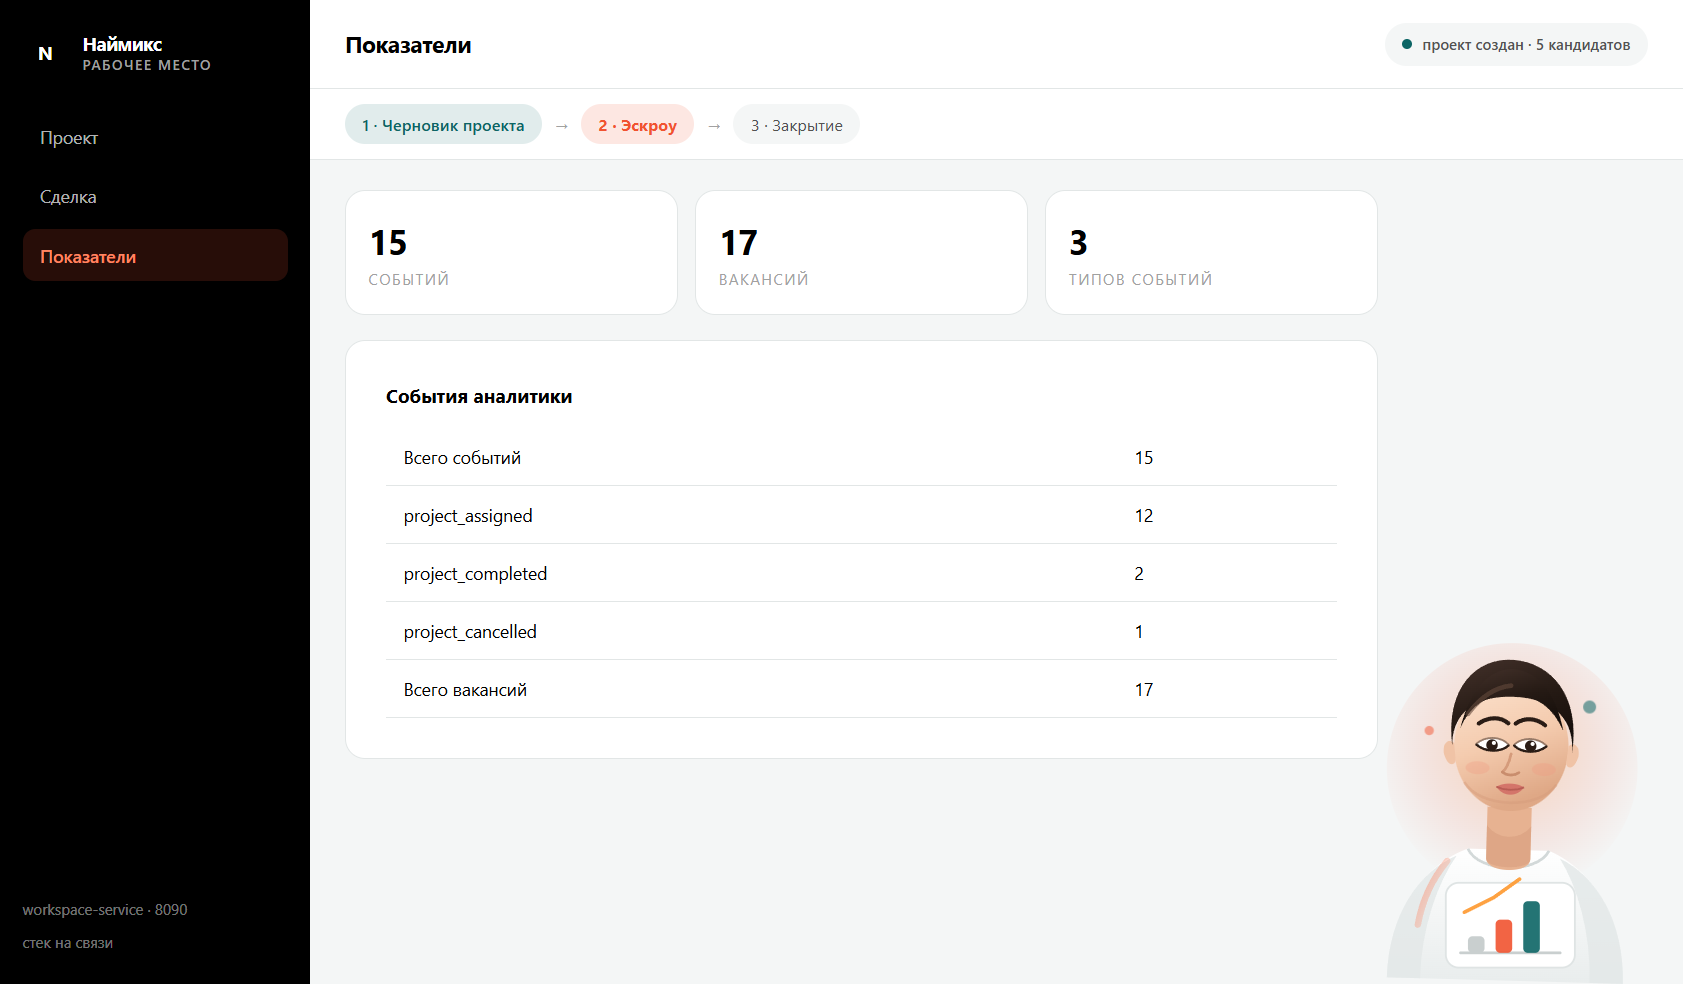
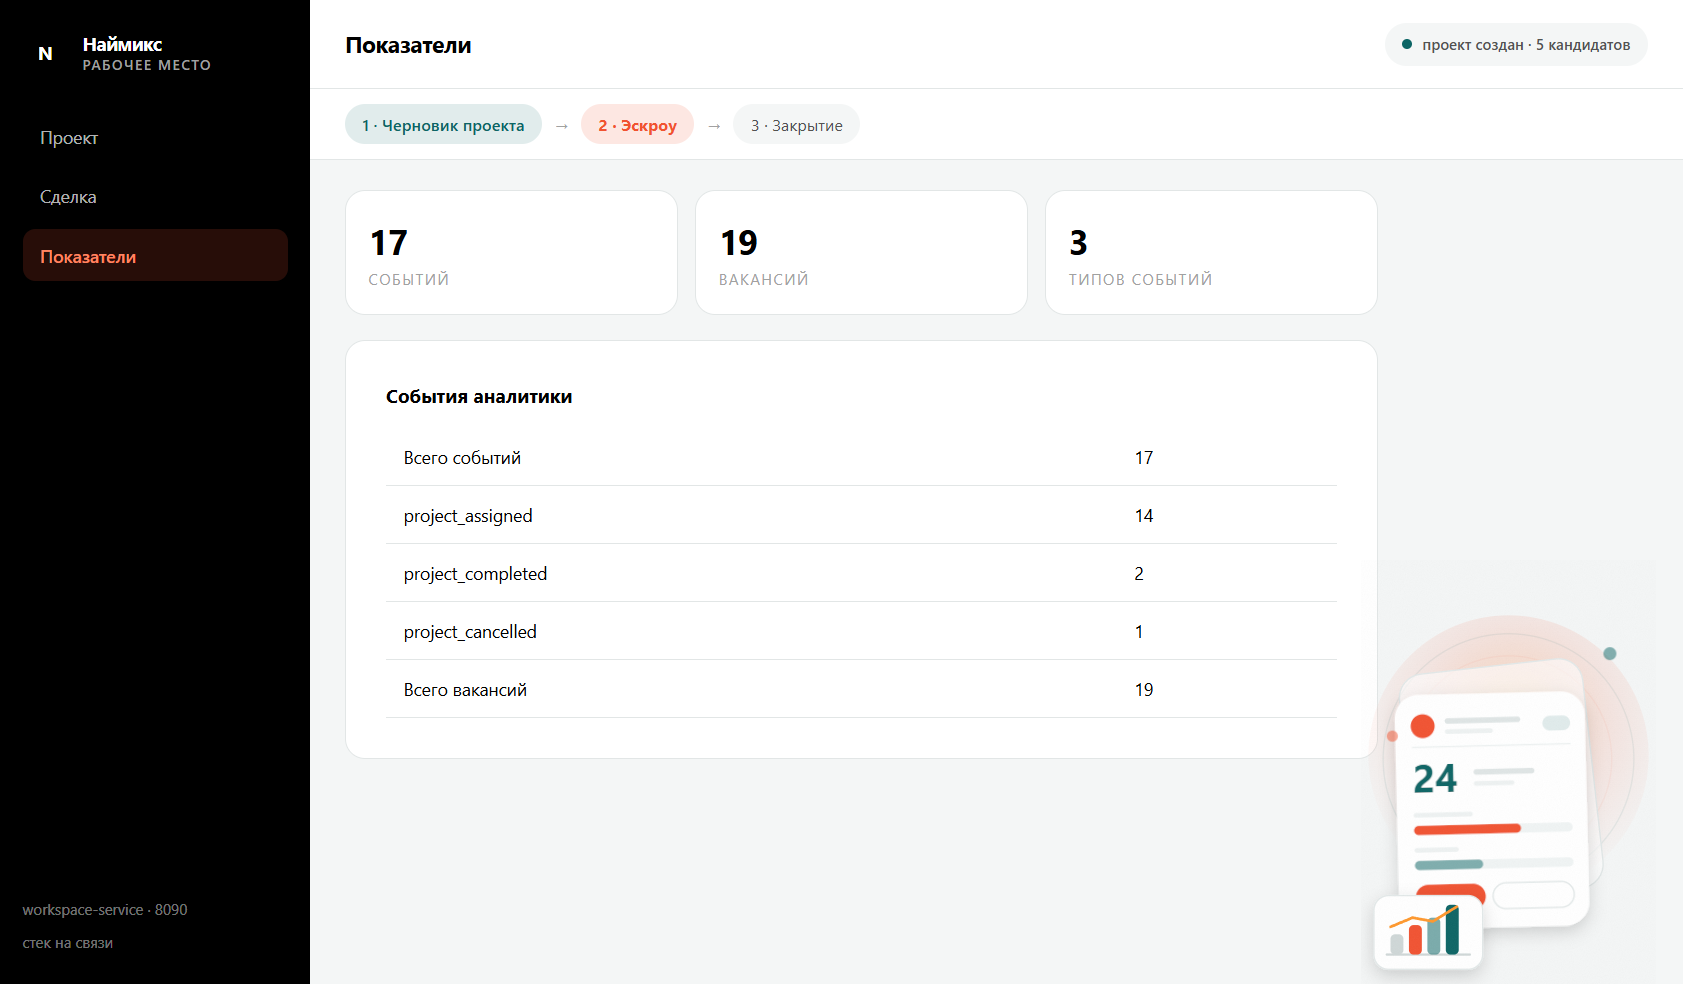
refactor(desktop): замена фигуры человека на предметную иллюстрацию
Портретная графика в SVG читалась как плоский аватар и не держала масштаб кабинета, поэтому иллюстрация собрана из объектов продукта: стопка карточек, монета и мини-график на тёплом гало.

Changed region(s): [[0.8033, 0.6402, 0.9578, 1.0], [0.4326, 0.2439, 0.4635, 0.2744], [0.2163, 0.2439, 0.2472, 0.2744]]

diff --git a/desktop/renderer/index.html b/desktop/renderer/index.html
@@ -115,111 +115,94 @@
 
     </div>
 
-    <svg class="character" id="character" viewBox="0 0 320 420" fill="none" aria-hidden="true">
+    <svg class="character" id="character" viewBox="0 0 320 460" fill="none" aria-hidden="true">
       <defs>
-        <radialGradient id="ch-halo" cx="50%" cy="42%" r="58%">
-          <stop offset="0%" stop-color="#fe982d" stop-opacity="0.30"/>
-          <stop offset="65%" stop-color="#f15330" stop-opacity="0.10"/>
+        <radialGradient id="ch-halo" cx="52%" cy="38%" r="62%">
+          <stop offset="0%" stop-color="#fe982d" stop-opacity="0.32"/>
+          <stop offset="58%" stop-color="#f15330" stop-opacity="0.11"/>
           <stop offset="100%" stop-color="#f15330" stop-opacity="0"/>
         </radialGradient>
-        <linearGradient id="ch-skin" x1="0" y1="0" x2="0.35" y2="1">
-          <stop offset="0%" stop-color="#fce3cf"/>
-          <stop offset="55%" stop-color="#f4cbae"/>
-          <stop offset="100%" stop-color="#dfa886"/>
+        <linearGradient id="ch-coin" x1="0" y1="0" x2="0.55" y2="1">
+          <stop offset="0%" stop-color="#ffc37a"/>
+          <stop offset="52%" stop-color="#fe982d"/>
+          <stop offset="100%" stop-color="#d97512"/>
         </linearGradient>
-        <linearGradient id="ch-shirt" x1="0" y1="0" x2="0" y2="1">
-          <stop offset="0%" stop-color="#ffffff"/>
-          <stop offset="100%" stop-color="#e9eded"/>
-        </linearGradient>
-        <linearGradient id="ch-hair" x1="0.1" y1="0" x2="0.6" y2="1">
-          <stop offset="0%" stop-color="#43312a"/>
-          <stop offset="55%" stop-color="#251a14"/>
-          <stop offset="100%" stop-color="#150e0a"/>
-        </linearGradient>
-        <linearGradient id="ch-rim" x1="0" y1="0" x2="1" y2="1">
-          <stop offset="0%" stop-color="#ff8562" stop-opacity="0.95"/>
-          <stop offset="100%" stop-color="#ff8562" stop-opacity="0"/>
-        </linearGradient>
-        <linearGradient id="ch-coin" x1="0" y1="0" x2="0.6" y2="1">
-          <stop offset="0%" stop-color="#ffb45c"/>
-          <stop offset="55%" stop-color="#fe982d"/>
-          <stop offset="100%" stop-color="#e07c14"/>
-        </linearGradient>
+        <filter id="ch-shadow" x="-40%" y="-40%" width="180%" height="180%">
+          <feDropShadow dx="0" dy="7" stdDeviation="9" flood-color="#1b1210" flood-opacity="0.16"/>
+        </filter>
+        <filter id="ch-grain" x="0" y="0" width="100%" height="100%">
+          <feTurbulence type="fractalNoise" baseFrequency="0.85" numOctaves="2" stitchTiles="stitch"/>
+          <feColorMatrix type="saturate" values="0"/>
+        </filter>
       </defs>
 
-      <circle cx="164" cy="186" r="136" fill="url(#ch-halo)"/>
+      <circle cx="160" cy="212" r="152" fill="url(#ch-halo)"/>
+      <circle cx="160" cy="216" r="136" fill="none" stroke="#0c6565" stroke-width="1.5" opacity="0.08"/>
+      <circle cx="160" cy="216" r="112" fill="none" stroke="#f15330" stroke-width="1.5" opacity="0.06"/>
 
       <g class="ch-figure">
-        <path d="M34 420 C34 348 72 296 118 278 L206 278 C252 296 290 348 290 420 Z" fill="url(#ch-shirt)"/>
-        <path d="M34 420 C34 352 66 304 106 286 C86 316 70 366 70 420 Z" fill="#e3e8e8" opacity="0.85"/>
-        <path d="M290 420 C290 352 258 304 218 286 C238 316 254 366 254 420 Z" fill="#e3e8e8" opacity="0.85"/>
-        <path d="M118 278 C130 304 194 304 206 278" stroke="#d3d9d9" stroke-width="3" fill="none"/>
-        <path d="M96 292 C80 312 70 336 66 362" stroke="url(#ch-rim)" stroke-width="7" stroke-linecap="round" opacity="0.65"/>
+        <g transform="rotate(-8 152 244)">
+          <rect x="52" y="120" width="200" height="250" rx="26" fill="#ffffff" opacity="0.62"/>
+          <rect x="52" y="120" width="200" height="250" rx="26" fill="none" stroke="#e2e8e8" stroke-width="1.5"/>
+        </g>
 
-        <path d="M138 232 L138 288 C138 304 186 304 186 288 L186 232 Z" fill="#e7b291"/>
-        <path d="M138 252 C150 268 174 268 186 252 L186 288 C186 300 138 300 138 288 Z" fill="#d59b7b" opacity="0.5"/>
+        <g filter="url(#ch-shadow)" transform="rotate(-3 143 277)">
+          <rect x="40" y="150" width="206" height="254" rx="26" fill="#ffffff"/>
+          <circle cx="70" cy="184" r="13" fill="#f15330"/>
+          <rect x="94" y="176" width="82" height="6" rx="3" fill="#dfe5e5"/>
+          <rect x="94" y="188" width="52" height="5" rx="2.5" fill="#eef2f2"/>
+          <rect x="200" y="176" width="30" height="16" rx="8" fill="#0c6565" opacity="0.13"/>
 
-        <ellipse cx="162" cy="166" rx="62" ry="70" fill="url(#ch-skin)"/>
-        <path d="M100 164 C90 156 84 172 93 184 C97 189 102 187 102 182" fill="#f0c3a6"/>
-        <path d="M224 164 C234 156 240 172 231 184 C227 189 222 187 222 182" fill="#f0c3a6"/>
-        <path d="M112 206 C130 234 194 234 212 206" stroke="#d59b7b" stroke-width="3" fill="none" opacity="0.45"/>
+          <rect x="58" y="206" width="172" height="1.5" fill="#eef2f2"/>
 
-        <path d="M98 168 C88 104 122 70 162 72 C202 74 236 108 228 172 C230 138 210 112 162 112 C114 112 96 138 98 168 Z" fill="url(#ch-hair)"/>
-        <path d="M106 148 C116 102 138 82 162 82 C188 84 208 104 218 148 C206 122 188 110 162 110 C134 110 116 122 106 148 Z" fill="url(#ch-hair)"/>
-        <path d="M114 132 C128 112 144 102 160 100" stroke="#63493b" stroke-width="5" stroke-linecap="round" opacity="0.6"/>
+          <text x="58" y="256" font-family="Onest, Segoe UI, Arial, sans-serif" font-size="42" font-weight="700" fill="#0c6565">24</text>
+          <rect x="124" y="232" width="66" height="6" rx="3" fill="#dfe5e5"/>
+          <rect x="124" y="245" width="44" height="5" rx="2.5" fill="#eef2f2"/>
 
-        <path d="M126 142 C137 134 150 134 158 141" stroke="#2a1c15" stroke-width="4.5" stroke-linecap="round"/>
-        <path d="M166 141 C175 134 188 134 198 142" stroke="#2a1c15" stroke-width="4.5" stroke-linecap="round"/>
+          <rect x="58" y="278" width="64" height="5" rx="2.5" fill="#eef2f2"/>
+          <rect x="58" y="292" width="172" height="10" rx="5" fill="#f0f4f4"/>
+          <rect x="58" y="292" width="116" height="10" rx="5" fill="#f15330"/>
 
-        <path d="M124 165 C134 156 150 156 159 165 C150 173 134 173 124 165 Z" fill="#ffffff"/>
-        <path d="M165 165 C174 156 190 156 200 165 C190 173 174 173 165 165 Z" fill="#ffffff"/>
-        <circle cx="141" cy="165" r="6.2" fill="#2b1d16"/>
-        <circle cx="183" cy="165" r="6.2" fill="#2b1d16"/>
-        <circle cx="143" cy="162.6" r="2.2" fill="#ffffff"/>
-        <circle cx="185" cy="162.6" r="2.2" fill="#ffffff"/>
-        <path d="M124 165 C134 173 150 173 159 165" stroke="#2a1c15" stroke-width="2.6" stroke-linecap="round" fill="none"/>
-        <path d="M165 165 C174 173 190 173 200 165" stroke="#2a1c15" stroke-width="2.6" stroke-linecap="round" fill="none"/>
-        <path d="M124 164 C134 155 150 155 159 164" stroke="#3a2a22" stroke-width="2" stroke-linecap="round" fill="none" opacity="0.5"/>
-        <path d="M165 164 C174 155 190 155 200 164" stroke="#3a2a22" stroke-width="2" stroke-linecap="round" fill="none" opacity="0.5"/>
+          <rect x="58" y="316" width="48" height="5" rx="2.5" fill="#eef2f2"/>
+          <rect x="58" y="330" width="172" height="10" rx="5" fill="#f0f4f4"/>
+          <rect x="58" y="330" width="74" height="10" rx="5" fill="#0c6565" opacity="0.5"/>
 
-        <path d="M162 174 C160 184 158 190 153 194" stroke="#d59b7b" stroke-width="3" stroke-linecap="round"/>
-        <path d="M153 194 C158 198 166 198 171 194" stroke="#c98d6d" stroke-width="3" stroke-linecap="round"/>
-
-        <path d="M147 210 C155 205 169 205 177 210 C169 221 155 221 147 210 Z" fill="#d4756a"/>
-        <path d="M147 210 C155 214 169 214 177 210" stroke="#b85d54" stroke-width="2" fill="none"/>
-
-        <ellipse cx="126" cy="190" rx="13" ry="7" fill="#f19a80" opacity="0.32"/>
-        <ellipse cx="198" cy="190" rx="13" ry="7" fill="#f19a80" opacity="0.32"/>
-
-        <text x="162" y="392" text-anchor="middle" font-family="Onest, Segoe UI, Arial, sans-serif" font-size="38" font-weight="700" fill="#f15330" opacity="0.92">N</text>
+          <rect x="58" y="356" width="76" height="28" rx="14" fill="#f15330"/>
+          <rect x="142" y="356" width="88" height="28" rx="14" fill="#ffffff" stroke="#e2e8e8" stroke-width="1.5"/>
+        </g>
       </g>
 
-      <g class="ch-prop ch-prop--project">
-        <rect x="92" y="312" width="140" height="90" rx="14" fill="#ffffff" stroke="#dfe4e4" stroke-width="2"/>
-        <path d="M92 340 H232" stroke="#dfe4e4" stroke-width="2"/>
-        <path d="M110 360 H196" stroke="#f15330" stroke-width="5" stroke-linecap="round"/>
-        <path d="M110 378 H168" stroke="#c9cfcf" stroke-width="5" stroke-linecap="round"/>
-        <circle cx="208" cy="366" r="9" fill="#f15330" opacity="0.9"/>
+      <g class="ch-prop ch-prop--project" filter="url(#ch-shadow)">
+        <rect x="62" y="398" width="132" height="54" rx="16" fill="#ffffff"/>
+        <rect x="62" y="398" width="132" height="54" rx="16" fill="none" stroke="#e2e8e8" stroke-width="1.5"/>
+        <circle cx="84" cy="418" r="7" fill="#f15330"/>
+        <rect x="100" y="414" width="70" height="5" rx="2.5" fill="#dfe5e5"/>
+        <circle cx="84" cy="438" r="7" fill="#0c6565" opacity="0.35"/>
+        <rect x="100" y="434" width="52" height="5" rx="2.5" fill="#eef2f2"/>
       </g>
 
-      <g class="ch-prop ch-prop--deal">
-        <circle cx="162" cy="352" r="50" fill="url(#ch-coin)"/>
-        <circle cx="162" cy="352" r="41" fill="#ffffff"/>
-        <text x="162" y="368" text-anchor="middle" font-family="Onest, Segoe UI, Arial, sans-serif" font-size="42" font-weight="700" fill="#f15330">₽</text>
-        <path d="M126 322 C136 310 152 304 168 304" stroke="#ffffff" stroke-width="5" stroke-linecap="round" opacity="0.6"/>
+      <g class="ch-prop ch-prop--deal" filter="url(#ch-shadow)">
+        <circle cx="248" cy="382" r="44" fill="url(#ch-coin)"/>
+        <circle cx="248" cy="382" r="35" fill="#ffffff"/>
+        <circle cx="248" cy="382" r="35" fill="none" stroke="#f6c795" stroke-width="2"/>
+        <text x="248" y="396" text-anchor="middle" font-family="Onest, Segoe UI, Arial, sans-serif" font-size="36" font-weight="700" fill="#f15330">₽</text>
+        <path d="M218 356 C228 346 241 342 254 343" stroke="#ffffff" stroke-width="4" stroke-linecap="round" opacity="0.45" fill="none"/>
       </g>
 
-      <g class="ch-prop ch-prop--kpi">
-        <rect x="92" y="310" width="140" height="92" rx="14" fill="#ffffff" stroke="#dfe4e4" stroke-width="2"/>
-        <path d="M108 386 H216" stroke="#c9cfcf" stroke-width="3" stroke-linecap="round"/>
-        <rect x="116" y="368" width="18" height="18" rx="5" fill="#c9cfcf"/>
-        <rect x="146" y="350" width="18" height="36" rx="5" fill="#f15330" opacity="0.9"/>
-        <rect x="176" y="330" width="18" height="56" rx="5" fill="#0c6565" opacity="0.9"/>
-        <path d="M112 342 L144 326 L172 306" stroke="#fe982d" stroke-width="4" stroke-linecap="round" opacity="0.9"/>
+      <g class="ch-prop ch-prop--kpi" filter="url(#ch-shadow)">
+        <rect x="14" y="364" width="118" height="80" rx="16" fill="#ffffff"/>
+        <rect x="14" y="364" width="118" height="80" rx="16" fill="none" stroke="#e2e8e8" stroke-width="1.5"/>
+        <path d="M28 428 H118" stroke="#cfd7d7" stroke-width="2.5" stroke-linecap="round"/>
+        <rect x="32" y="406" width="14" height="22" rx="5" fill="#cfd7d7"/>
+        <rect x="52" y="396" width="14" height="32" rx="5" fill="#f15330"/>
+        <rect x="72" y="388" width="14" height="40" rx="5" fill="#0c6565" opacity="0.55"/>
+        <rect x="92" y="374" width="14" height="54" rx="5" fill="#0c6565"/>
+        <path d="M32 398 L56 388 L78 392 L104 376" stroke="#fe982d" stroke-width="3" stroke-linecap="round" fill="none"/>
       </g>
 
-      <circle class="ch-dot" cx="248" cy="120" r="7" fill="#0c6565" opacity="0.55"/>
-      <circle class="ch-dot ch-dot--slow" cx="74" cy="150" r="5" fill="#f15330" opacity="0.5"/>
+      <circle class="ch-dot" cx="270" cy="102" r="7" fill="#0c6565" opacity="0.5"/>
+      <circle class="ch-dot ch-dot--slow" cx="34" cy="196" r="6" fill="#f15330" opacity="0.5"/>
+      <rect width="320" height="460" filter="url(#ch-grain)" opacity="0.05"/>
     </svg>
   </main>
 </div>

diff --git a/desktop/renderer/styles.css b/desktop/renderer/styles.css
@@ -222,7 +222,7 @@ body {
 }
 
 .ch-figure {
-  transform-origin: 120px 200px;
+  transform-origin: 160px 240px;
   transition: transform 0.6s cubic-bezier(0.2, 0.7, 0.3, 1);
 }
 
@@ -248,7 +248,7 @@ body[data-view="kpi"] .ch-prop--kpi {
 }
 
 .ch-dot {
-  transform-origin: 190px 118px;
+  transform-origin: 220px 130px;
   animation: ch-float 5s ease-in-out infinite;
 }
 

diff --git a/README.md b/README.md
@@ -19,10 +19,11 @@
 2. [02-escrow-held.png](desktop/screenshots/02-escrow-held.png) — сделка, эскроу HELD, уведомление
 3. [03-kpi.png](desktop/screenshots/03-kpi.png) — показатели аналитики
 
-Персонаж в правом нижнем углу — векторная иллюстрация с градиентами, светом и деталями лица.
-Он меняется при переходе между разделами: на «Проекте» держит карточку задачи, на «Сделке» —
-монету с ₽, на «Показателях» — карточку с графиком. Поза слегка наклоняется, а при прокрутке
-фигура плавно смещается вместе с контентом (переменная `--scroll` и `data-view` на `body`).
+Иллюстрация в правом нижнем углу — векторная композиция из объектов продукта: стопка карточек
+на тёплом гало, монета и мини-график, без фигуры человека. Набор объектов меняется при переходе
+между разделами: на «Проекте» появляется список задач, на «Сделке» — монета с ₽, на «Показателях» —
+карточка с графиком. Стопка слегка наклоняется, а при прокрутке смещается вместе с контентом
+(переменная `--scroll` и `data-view` на `body`).
 
 Electron-приложение (`desktop/`) — рабочее место заказчика: создание проекта с ИИ-описанием,
 подбор исполнителей, эскроу-сделка, показатели аналитики. Стиль повторяет сайт компании:
